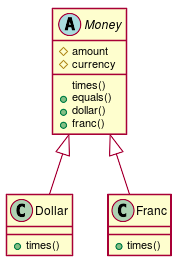
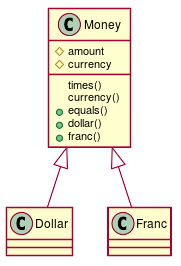
第１０章 テストに聞いてみる #EFJ-3

Changed region(s): [[0.0276, 0.0302, 0.9669, 0.9962]]

diff --git a/src/main/java/tdd/money/Money.java b/src/main/java/tdd/money/Money.java
@@ -1,20 +1,28 @@
 package tdd.money;
 
-abstract class Money {
+class Money {
     protected int amount;
     protected String currency;
     Money(int amount, String currency) {
         this.amount = amount;
         this.currency = currency;
     }
-    abstract Money times(int multiplier);
+
+    Money times(int multiplier) {
+        return new Money(amount * multiplier, currency);
+    }
+
     String currency() {
         return currency;
     }
+
     public boolean equals(Object object) {
         Money money = (Money) object;
         return amount == money.amount
-                && getClass().equals(money.getClass());
+                && currency().equals(money.currency());
+    }
+    public String toString() {
+        return amount + " " + currency;
     }
 
     static Dollar dollar(int amount) {
@@ -25,3 +33,4 @@ abstract class Money {
         return new Franc(amount, "CHF");
     }
 }
+

diff --git a/src/test/java/tdd/money/MoneyTest.java b/src/test/java/tdd/money/MoneyTest.java
@@ -32,4 +32,8 @@ class MoneyTest {
         assertEquals("USD", Money.dollar(1).currency());
         assertEquals("CHF", Money.franc(1).currency());
     }
+    @Test
+    public void testDifferentClassEquality() {
+        assertTrue(new Money(10, "CHF").equals(new Franc(10, "CHF")));
+    }
 }

diff --git a/src/main/java/tdd/money/Dollar.java b/src/main/java/tdd/money/Dollar.java
@@ -4,7 +4,4 @@ class Dollar extends Money {
     Dollar(int amount, String currency) {
         super(amount, currency);
     }
-    Money times(int multiplier) {
-         return Money.dollar(amount * multiplier);
-    }
 }

diff --git a/src/main/java/tdd/money/Franc.java b/src/main/java/tdd/money/Franc.java
@@ -4,7 +4,4 @@ class Franc extends Money {
     Franc(int amount, String currency) {
         super(amount, currency);
     }
-    Money times(int multiplier) {
-        return Money.franc(amount * multiplier);
-    }
 }

diff --git a/docs/_tdd.md b/docs/_tdd.md
@@ -40,15 +40,14 @@ markdown:
 ## コアモデル
 ```puml
 class Dollar {
-  + times()
 }
-class Franc {    
-  + times()
+class Franc {
 }
-abstract Money {
+class Money {
   # amount
   # currency
   times()
+  currency()
   + equals()
   + dollar()
   + franc()
@@ -72,7 +71,7 @@ Money <|-- Franc
 + [x] ~~5CHF * 2 = 10 CHF~~
 + [ ] DollarとFrancの重複
 + [x] ~~equalsの一般化~~
-+ [ ] timesの一般化
++ [x] ~~timesの一般化~~
 + [x] ~~FrancとDollarを比較する~~
 + [x] ~~通貨の概念~~
 + [ ] testFrancMultiplicationを削除する？

diff --git a/docs/TDD.md b/docs/TDD.md
@@ -36,7 +36,7 @@
 ## コアモデル
   
 
-![](../assets/9caaa2be0c7866a76113ca987a26502f0.png?0.8316556619160937)  
+![](../assets/9caaa2be0c7866a76113ca987a26502f0.png?0.15828075395719043)  
   
 ## TODOリスト
   
@@ -53,7 +53,7 @@
 + [x] ~~5CHF * 2 = 10 CHF~~
 + [ ] DollarとFrancの重複
 + [x] ~~equalsの一般化~~
-+ [ ] timesの一般化
++ [x] ~~timesの一般化~~
 + [x] ~~FrancとDollarを比較する~~
 + [x] ~~通貨の概念~~
 + [ ] testFrancMultiplicationを削除する？
